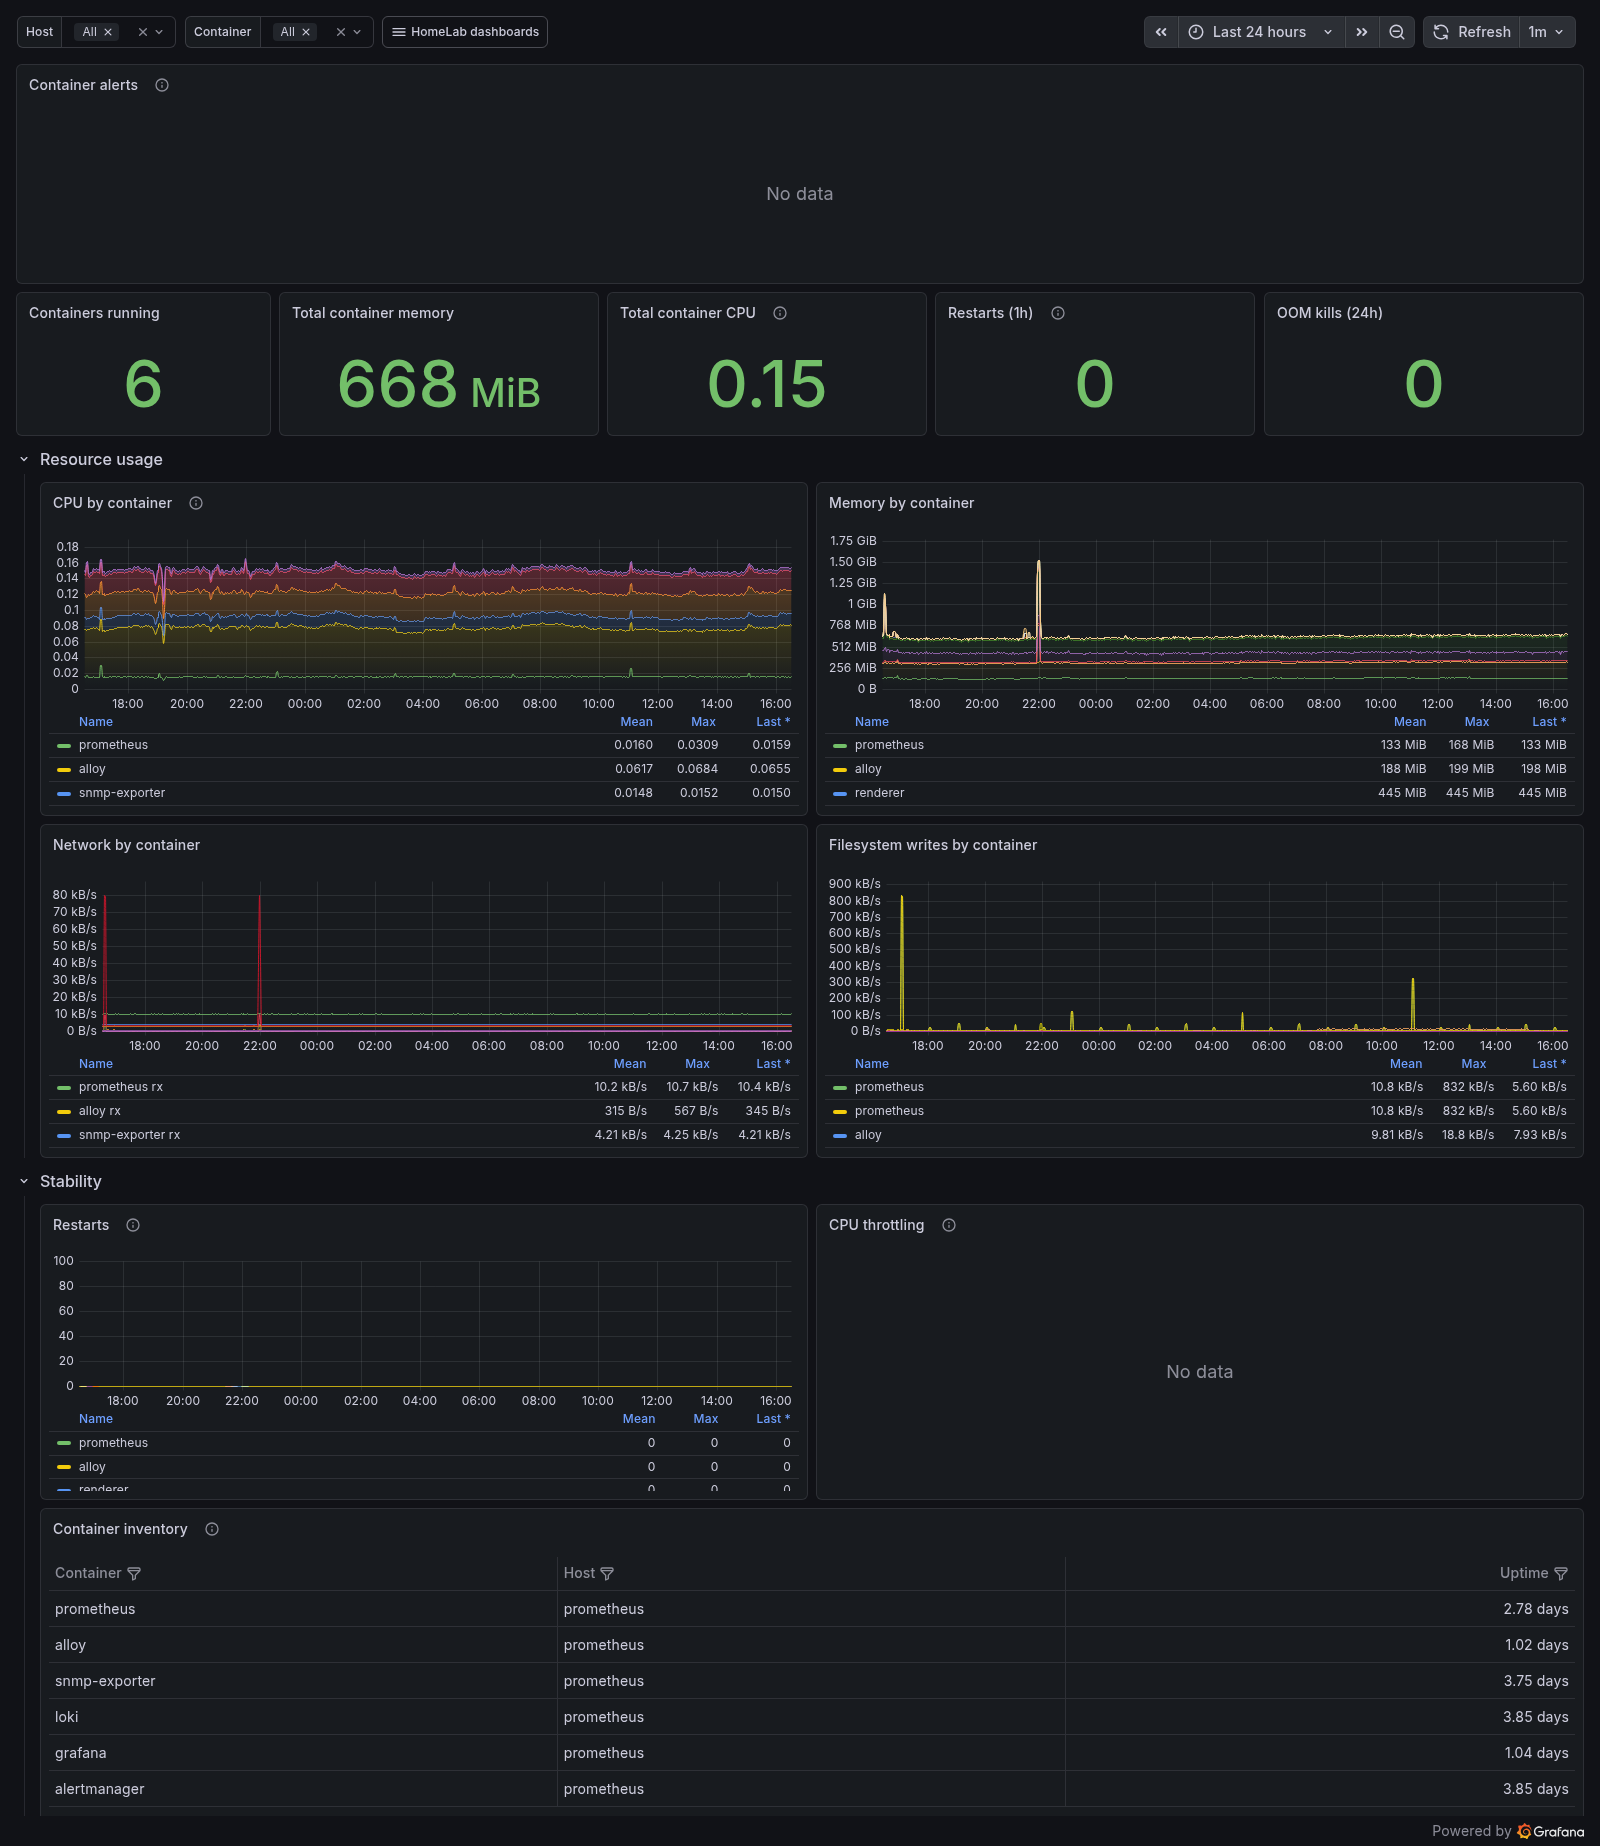
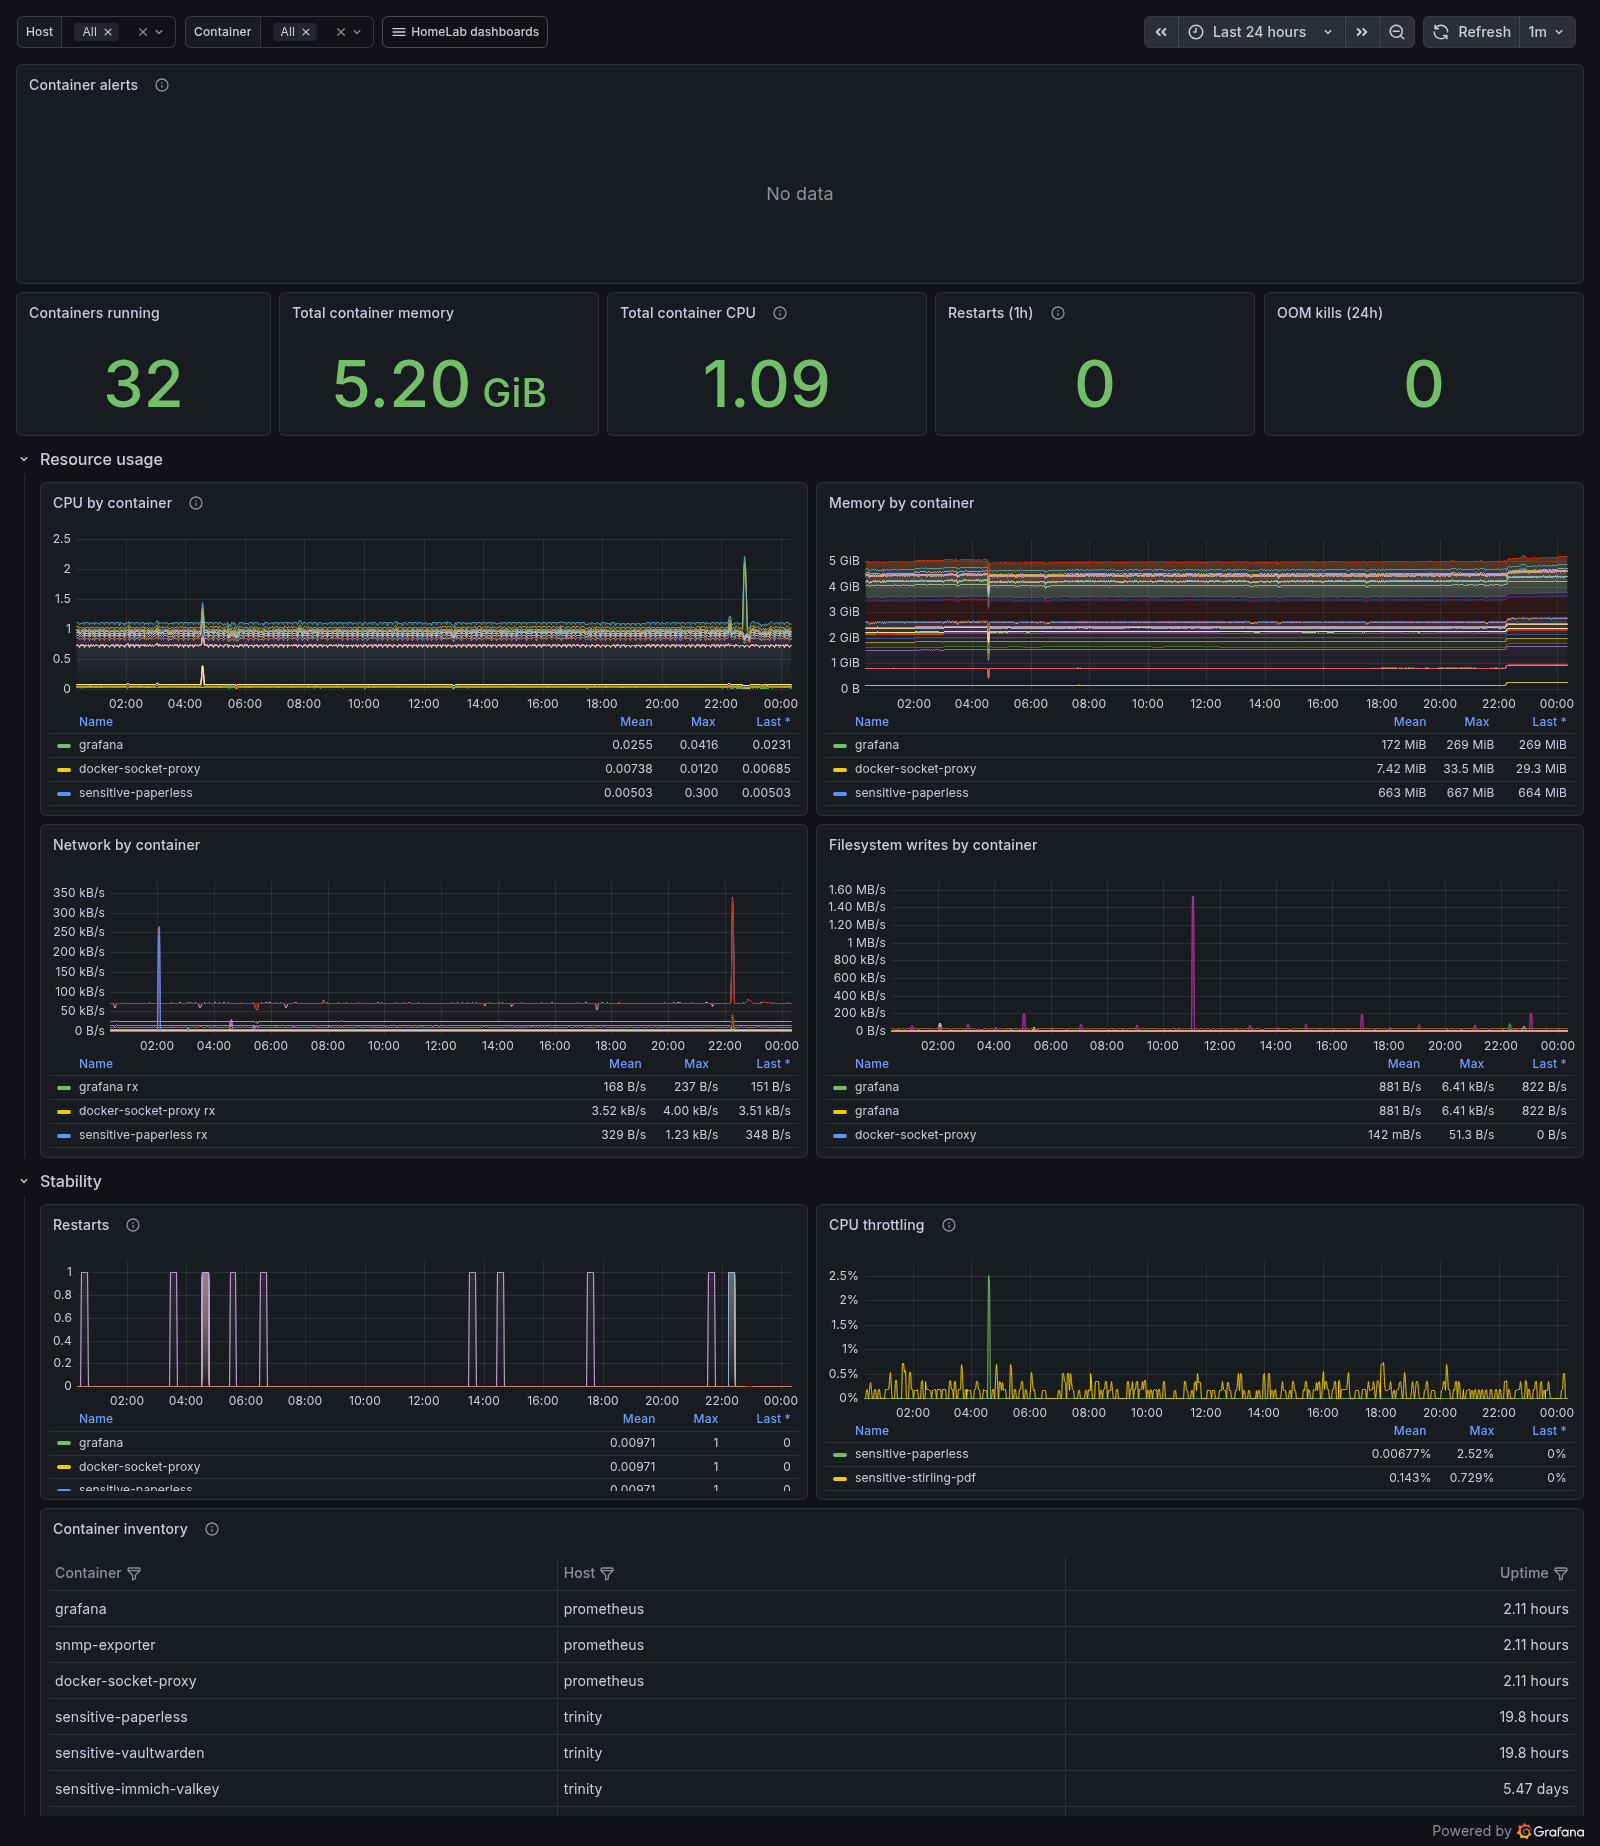
docs(images): re-shoot the dashboards, and stop the renderer paging (#883)
Five renders from make screenshots on 2026-10-04. Four replace the
2026-08-22 set. observability-stack.png is the first capture of
homelab-stack. Each image was reviewed against docs/images/README.md's
publishing checklist. The faults the renders show are recorded there rather
than cropped: template guests firing HypervisorGuestStopped, a firewall uptime
read in the wrong unit, the not-yet-collected firewall filesystem panel, raw
iLO column names, and UPS frequency in tenths.

The capture-profile renderer now carries homelab.logs=off. Without it,
ContainerGone sees the container removed after each capture and fires for up
to seven days.

Refs #883

diff --git a/docs/images/README.md b/docs/images/README.md
@@ -12,39 +12,43 @@ out rather than illustrated.
 
 ## What is here now
 
-Four images, captured in a single run on 2026-08-22 over a 24-hour window. One
-run rather than four afternoons: a set shot at the same moment is comparable,
+Five images, captured in a single run on 2026-10-04 over a 24-hour window. One
+run rather than five afternoons: a set shot at the same moment is comparable,
 and a gap in one of them is visible against the others.
 
 Which file holds which dashboard is in the table under "Capturing them" below,
 because that pairing is defined in the capture script rather than here.
 
-Two things in them are real and should not be tidied away on the next capture.
-`network-snmp.png` shows `IloBatteryCondition` firing on `shiva` — that was a
-genuine hardware fault, tracked in
-[#76](https://github.com/Gerrrt/HomeLab/issues/76), and a screenshot of a stack
-with nothing wrong would have been the less honest picture. The pack was
-replaced on 2026-09-02, so the next capture will legitimately show it quiet.
+Some things in them are real and should not be tidied away. A screenshot of a
+stack with nothing wrong would be the less honest picture, so each of these is
+recorded here instead of being cropped out:
 
-`docker-containers.png` carries a `renderer` series in two legends: that is the
-`capture` profile container taking the screenshot, which exists only for the
-duration of a capture, which is why the inventory below it lists six containers
-and not seven.
+- **`host-overview.png`:** the alert table shows `HypervisorGuestStopped` for
+  the Packer templates 901 and 911. Templates never run, so this is the rule
+  needing a template exclusion, not a guest that died.
+- **`network-snmp.png`:**
+  - *Firewall uptime* reads 12 years. `pfStatusRuntime` is in hundredths of a
+    second and the panel treats it as seconds, so the value is about 44 days.
+  - The firewall's *Filesystem usage* panel says *No data*. #873 added it, and
+    on the day of the capture the running stack was not yet collecting
+    `hrStorage` from `morpheus`.
+  - The iLO *Hardware health* table shows raw `cpqHeTemperature` column names.
+  - The `IloBatteryCondition` fault the 2026-08-22 capture showed is gone: the
+    pack was replaced on 2026-09-02.
+- **`ups-power.png`:**
+  - It now shows measured values under the banner that records the pack being
+    fitted and proven.
+  - *Input frequency* reads 600: the card reports tenths of a hertz and the
+    panel does not divide.
+- **`observability-stack.png`:** this is its first capture. The step in
+  ingestion near 22:00 is the stack being redeployed two hours before the
+  shot.
 
-`ups-power.png` is out of date in one specific way, and knowingly so. It was
-shot before a battery pack was fitted to `mjolnir` on 2026-08-28, so it still
-shows the old "No battery is installed in this UPS" banner and the
-"(fabricated — no battery fitted)" panel titles. It stays in place rather than
-being deleted — it is a real render of what the dashboard said that day, and the
-root `README.md` says underneath it when it was taken and what has changed
-since. The pack has since passed its self-test, so the panels now read
-measured values and the re-shoot is due: run `make screenshots` and work
-through the checklist below before committing what it renders.
-
-The Container inventory panel used to publish the absolute path of
-`compose.yaml` — and so a username — because it excluded fields by name and
-cAdvisor kept adding new ones. It now filters to an allowlist. That was caught
-by this checklist working, which is the argument for having it.
+The set before this one was shot on 2026-08-22 and showed `mjolnir` with no
+battery fitted. The Container inventory panel in an earlier set published the
+absolute path of `compose.yaml`, and so a username, because it excluded fields
+by name and cAdvisor kept adding new ones. It now filters to an allowlist. That
+was caught by the checklist below, which is the argument for having it.
 
 ## Capturing them
 
@@ -55,8 +59,12 @@ make screenshots
 
 `scripts/capture-screenshots.sh` starts the `capture` profile's renderer, shoots
 five of the seven dashboards over a 24-hour window, and stops the renderer
-again. Nothing is left running and `docker compose ps` shows the same six
-services afterwards.
+again. Nothing is left running, and `docker compose ps` shows the same services
+afterwards as before. The renderer carries `homelab.logs=off`, the label the
+estate's other throwaway containers use. That keeps `ContainerGone` from paging
+for a week about a container that was meant to go
+([#883](https://github.com/Gerrrt/HomeLab/issues/883)). Before #883 a capture
+needed a silence on `ContainerGone{name="renderer"}`.
 
 Filenames and dashboards are paired in the script, not here, so they cannot
 drift:
@@ -93,23 +101,8 @@ correct fix for a bad window, not cropping.
 
 ## What is not captured, and why
 
-There are seven dashboards and four screenshots. `homelab-logs` and
-`homelab-security` are excluded on purpose and always will be. `homelab-stack`
-is in the capture set and has simply not been shot yet.
-
-### `homelab-stack` is wired for capture and is only unshot
-
-It arrived with [#81](https://github.com/Gerrrt/HomeLab/issues/81) and carries
-no log lines, no usernames and no addresses beyond the container names and
-service ports already published throughout this repository. Nothing about it
-needs redaction, and it is in `DASHBOARDS` in `scripts/capture-screenshots.sh` —
-it wants a run of `make screenshots` with a full day of history behind it so the
-panels are not half empty.
-
-It is left out of this set rather than shot in a hurry because the window
-matters more for this dashboard than for any other: it draws the collection path
-itself, so a capture taken shortly after a deploy publishes the deploy's own gap
-as though it were the steady state.
+There are seven dashboards and five screenshots. `homelab-logs` and
+`homelab-security` are excluded on purpose and always will be.
 
 ### `homelab-logs` is excluded on purpose
 

diff --git a/README.md b/README.md
@@ -305,9 +305,10 @@ a ninety-day deadline and an alert instead. See
 
 ## Dashboards
 
-Rendered from the running stack by `make screenshots`, over a 24-hour window.
-Four of the seven provisioned dashboards are here; `docs/images/README.md`
-explains why the Logs and Security dashboards are deliberately not among them.
+Rendered from the running stack by `make screenshots` on 2026-10-04, over a
+24-hour window. Every dashboard but Logs and Security is here;
+`docs/images/README.md` explains why those two are deliberately left out, and
+what in these renders is a known fault rather than the steady state.
 
 ![Host Overview dashboard: CPU, memory, load, storage and network for every host
 running an Alloy agent, with a table of firing host alerts across the
@@ -321,14 +322,13 @@ inventory.](docs/images/docker-containers.png)
 MokerLink switch interface throughput and link status, and HPE iLO chassis power
 draw and hardware health.](docs/images/network-snmp.png)
 
-![UPS & Power dashboard as it read on 2026-08-22: APC power source, output load,
-input and output voltage and runtime, under the banner that stood before a
-battery pack was fitted, when every battery figure was fabricated.](docs/images/ups-power.png)
+![UPS & Power dashboard: APC power source, battery charge, output load,
+runtime, voltage and time on battery, under the banner recording when the pack
+was fitted and proven.](docs/images/ups-power.png)
 
-That capture is from 2026-08-22, before a pack was fitted on 2026-08-28. The
-banner it shows has been rewritten three times since, and the self-test has now
-passed, so the panels read measured values rather than invented ones — re-shoot
-the set with `make screenshots`.
+![Observability Stack dashboard: every scrape target with its staleness, then
+Prometheus, Loki, Alertmanager and the Alloy agents — the collection path
+watching itself.](docs/images/observability-stack.png)
 
 ## What runs it
 
